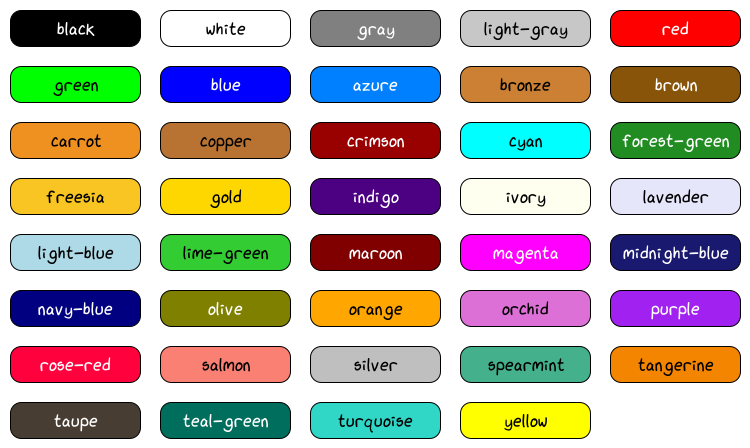
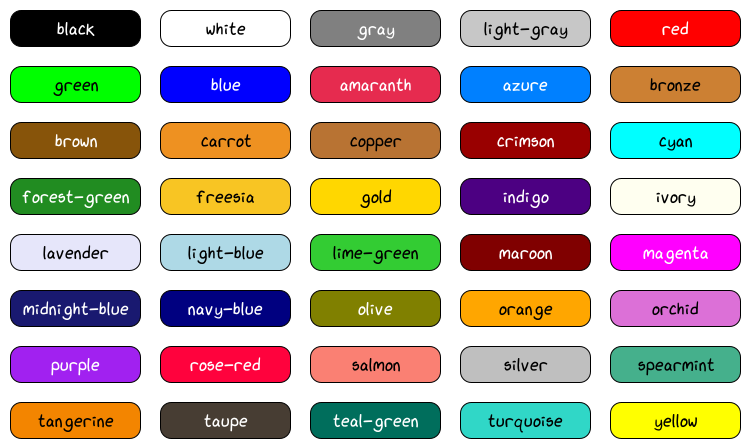
add amaranth

diff --git a/src/colors.cpp b/src/colors.cpp
@@ -132,6 +132,8 @@ NamedColor NamedColorFromString(const std::string &name) {
     return NamedColor::Green;
   } else if (cname.compare("blue") == 0) {
     return NamedColor::Blue;
+  } else if (cname.compare("amaranth") == 0) {
+    return NamedColor::Amaranth;
   } else if (cname.compare("azure") == 0) {
     return NamedColor::Azure;
   } else if (cname.compare("bronze") == 0) {
@@ -232,6 +234,7 @@ for cn in viren2d.color_names():
     case NamedColor::Green: return "green";
     case NamedColor::Blue: return "blue";
 
+    case NamedColor::Amaranth: return "amaranth";
     case NamedColor::Azure: return "azure";
     case NamedColor::Bronze: return "bronze";
     case NamedColor::Brown: return "brown";
@@ -323,6 +326,9 @@ Color::Color(const NamedColor color, double alpha) {
 
     case NamedColor::Blue:
       blue = 1.0; red = green = 0.0; break;
+
+    case NamedColor::Amaranth:
+      red = 0.90; green = 0.17; blue = 0.31; break;
 
     case NamedColor::Azure:
       red = 0.0; green = 0.5; blue = 1.0; break;

diff --git a/examples/rtd-examples-python/render_rtd_images.py b/examples/rtd-examples-python/render_rtd_images.py
@@ -29,10 +29,10 @@ def render_rtd_demos(show_images: bool, save_images: bool):
     # _process_result(
     #     img, show_images, 'Arrows', save_images, 'arrows.png')
 
-    # # Color names
-    # img = demo_color_names()
-    # _process_result(
-    #     img, show_images, 'Color Names', save_images, 'color-names.png')
+    # Color names
+    img = demo_color_names()
+    _process_result(
+        img, show_images, 'Color Names', save_images, 'color-names.png')
 
     # # Line cap
     # img = demo_line_cap()

diff --git a/include/viren2d/colors.h b/include/viren2d/colors.h
@@ -32,6 +32,7 @@ enum class NamedColor : unsigned short {
   Green,
   Blue,
 
+  Amaranth,
   Azure,
   Bronze,
   Brown,
